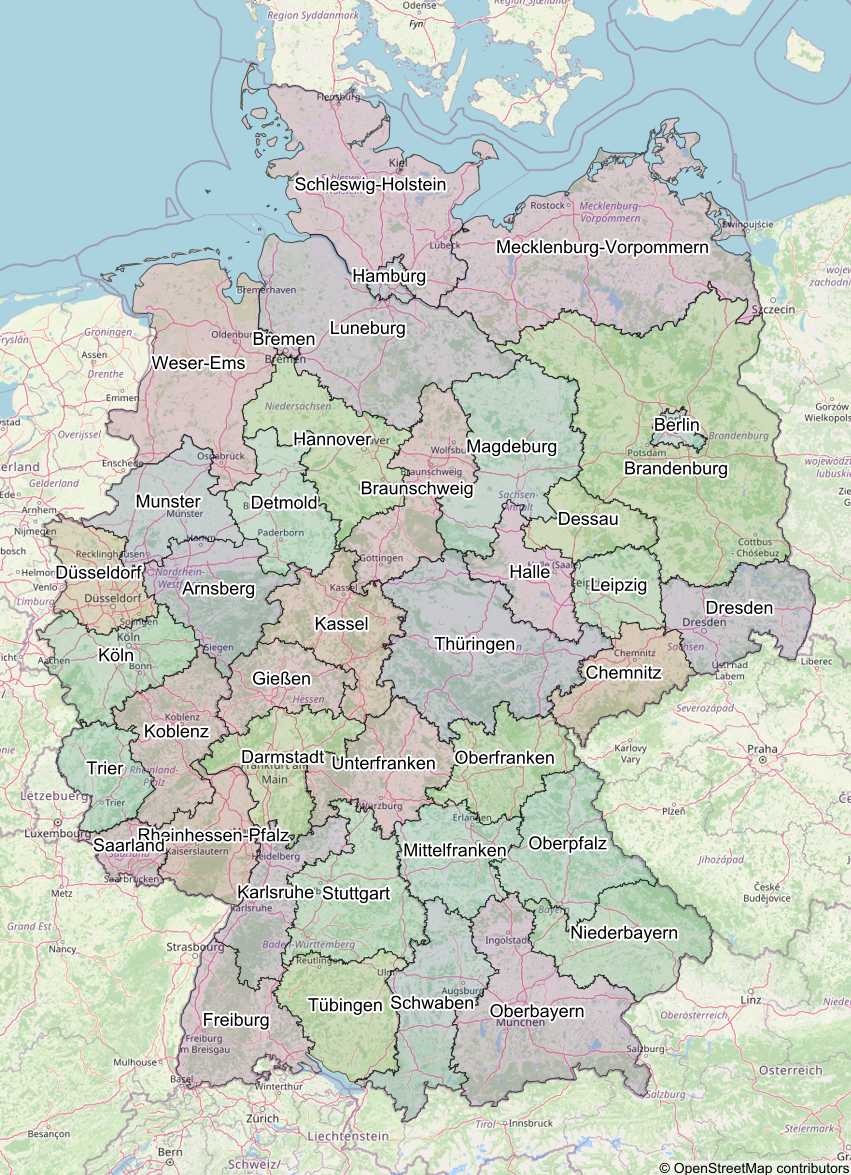
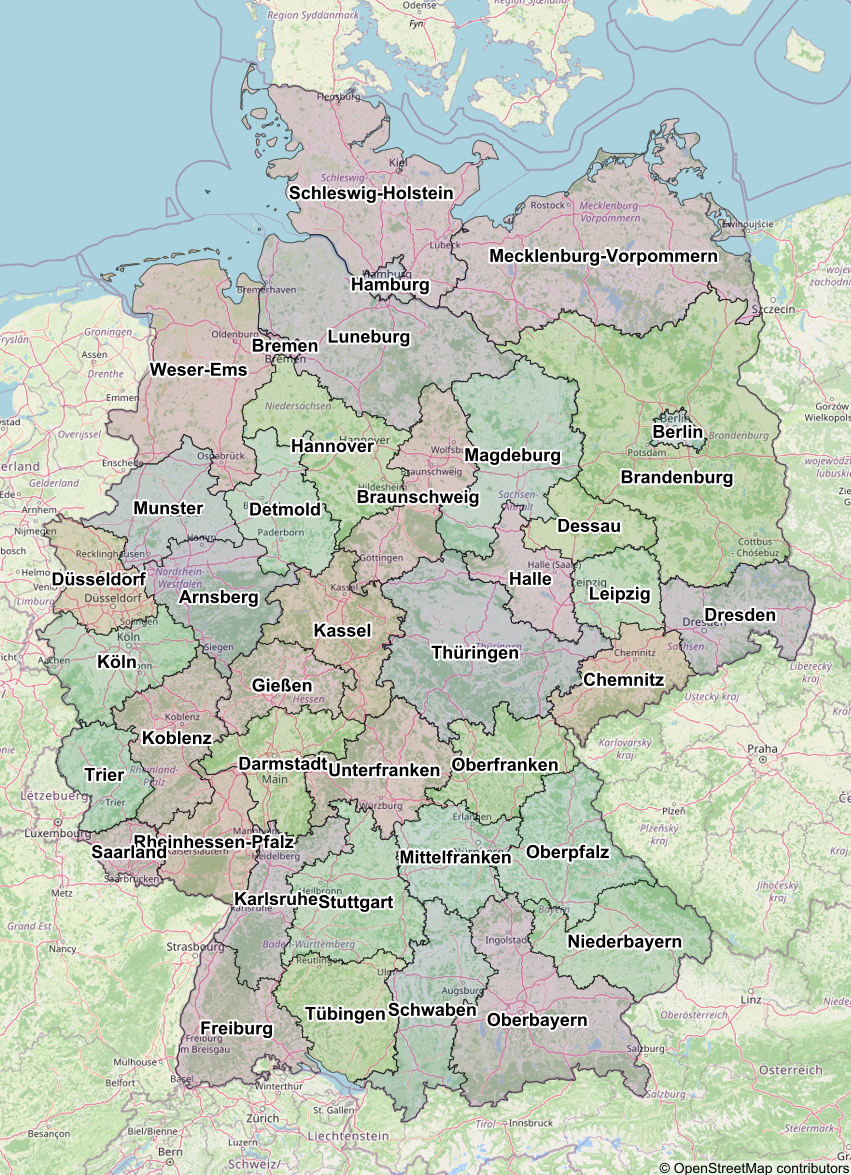
Fix affine shear in map transforms (#6)
* fix bbox affine shear

Remove unintended shear so raster and vector coordinates align, and publish the correction as 0.3.3.

* test raster and vector alignment

Add a high-zoom Statue of Liberty golden test so future transforms must keep geographic points aligned with their raster tiles.

* refresh Germany example renders

Regenerate the documented country-scale maps with the corrected affine transform to confirm raster and vector layers remain aligned.

diff --git a/test/test_raster_vector_alignment.py b/test/test_raster_vector_alignment.py
@@ -1,0 +1,50 @@
+import mapsy
+from mock import Mock
+from shapely.geometry import Point
+
+from test.util import assert_render_equality
+
+STATUE_OF_LIBERTY = Point(-74.0445, 40.6892)
+# Carto Positron z16/19288/24645; © OpenStreetMap contributors © CARTO.
+STATUE_TILE_BOUNDS = (
+    -74.0478515625,
+    40.68896903762434,
+    -74.0423583984375,
+    40.69313415330808,
+)
+
+
+def test_statue_of_liberty_raster_point_alignment(tmp_path):
+    mock_client = Mock()
+    with open("test/data/statue_of_liberty_tile.png", "rb") as file:
+        mock_client.get_tile.return_value = file.read()
+
+    raster = mapsy.TiledRasterLayer(
+        sources=["fixture"],
+        min_zoom=16,
+        max_zoom=16,
+        tile_size=256,
+        client=mock_client,
+    )
+    marker = mapsy.CircleLayer(
+        [
+            mapsy.CircleItem(
+                geometry=STATUE_OF_LIBERTY,
+                color=mapsy.Color(1, 1, 0, 0.9),
+                radius=6,
+                line_color=mapsy.Colors.BLACK,
+                line_width=2,
+            )
+        ]
+    )
+
+    with assert_render_equality(
+        tmp_path,
+        "test_statue_of_liberty_alignment.png",
+        size=(256, 256),
+        box=STATUE_TILE_BOUNDS,
+    ) as map:
+        map.add_layer(raster)
+        map.add_layer(marker)
+
+    mock_client.get_tile.assert_called_once_with("fixture", 16, 19288, 24645)

diff --git a/test/test_bbox.py b/test/test_bbox.py
@@ -1,5 +1,5 @@
 import pytest
-from mapsy.geo_util import Box
+from mapsy.geo_util import Box, bbox_to_affine
 
 
 def test_bbox_round_trip():
@@ -31,3 +31,17 @@ def test_bbox_aspect_ratio_padding():
 
     assert padded.aspect_ratio == 2
     assert padded == pytest.approx(Box(0, 2, 4, 4))
+
+
+def test_bbox_to_affine_maps_image_corners_without_shear():
+    bbox = Box(100, 200, 500, 800)
+    width, height = 80, 60
+
+    transform = bbox_to_affine(bbox, (width, height))
+
+    assert transform.b == 0
+    assert transform.d == 0
+    assert transform * (0, 0) == pytest.approx((bbox.x_min, bbox.y_max))
+    assert transform * (width, 0) == pytest.approx((bbox.x_max, bbox.y_max))
+    assert transform * (0, height) == pytest.approx((bbox.x_min, bbox.y_min))
+    assert transform * (width, height) == pytest.approx((bbox.x_max, bbox.y_min))

diff --git a/mapsy/geo_util.py b/mapsy/geo_util.py
@@ -113,7 +113,7 @@ def bbox_to_affine(
 ) -> affine.Affine:
     scale_x = bbox.delta_x / shape[0]
     scale_y = bbox.delta_y / shape[1]
-    return affine.Affine(scale_x, -1, bbox.x_min, -1, -scale_y, bbox.y_max)
+    return affine.Affine(scale_x, 0, bbox.x_min, 0, -scale_y, bbox.y_max)
 
 
 def wgs84_to_web_mercator(geom: BaseGeometry):

diff --git a/mapsy/common.py b/mapsy/common.py
@@ -4,7 +4,7 @@ from typing import NamedTuple
 
 class MapsyInfo:
     AGENT_NAME = "mapsy"
-    VERSION = "0.1.0"
+    VERSION = "0.3.3"
 
 
 class LineCap(Enum):
